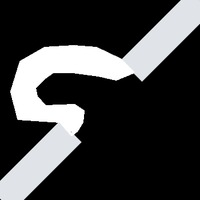
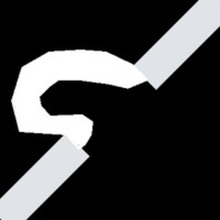
agrandado granpri}

diff --git a/static/games/granpri/pages/index.html b/static/games/granpri/pages/index.html
@@ -20,11 +20,11 @@
    $(function(){ 
    
    	var trackImg = [],
-	CWIDTH=600,
-	CHEIGHT=450,
+	CWIDTH=720,
+	CHEIGHT=540,
 	xpos = new Array(),
 	ypos = new Array(),
-	tmax = 15,
+	tmax = 20,
 	logger = $.games.new_play(),
 	backsound,
 	scoreTable = new Highscore(resume),
@@ -45,7 +45,7 @@
 	pPaso = 0,
 	check = new Checkpoint([5, 10, 15, 20, 25],on_end,on_check),  
     temp = $("#temp").get(0).getContext('2d');
-	temp.translate(100,100);
+	temp.translate(110,110);
 	temp.save(); 
    	for (i=0;i<=4;i++){
 		trackImg[i]= new Image();
@@ -53,10 +53,6 @@
 	} //
 	var img = new Image();
 	img.src = './res/images/Pasto.png';
-	img.onload = function(){
-	   generate_track([0,1,2,3],[1,2,3,4])
-	   
-    }
 	if ($.games.is_school_player){setTimeout(function(){END_SCHOOL = 1},$.games.school_max_time*1000)}
 	if ($.games.is_authenticated){
 		state = $.games.state;
@@ -83,29 +79,36 @@
 	//Drawing functions	
 	
 	function generate_track(interior,exterior){
-		var new_data=0;
+		var LADO = 220,
+			PX = 200,
+			PY = 75,
+			new_data=0;
 		ctx.drawImage(img,0,0);
+		ctx.globalCompositeOperation = 'lighter';
+		
 		temp.restore();
 		// dibujo exterior
-		ctx.globalCompositeOperation = 'lighter';
+		
+
 		for (c = 0; c < 4; c++) {
-			temp.drawImage(trackImg[exterior[c]], -100, -100);
-			ctx.drawImage($("#temp").get(0), 175 + 200 * Math.floor(c / 2), 25 + Math.round((c % 3)/1.5) * 200);
+			temp.drawImage(trackImg[exterior[c]], -LADO/2, -LADO/2);
+			ctx.drawImage($("#temp").get(0), PX + LADO * Math.floor(c / 2),PY + Math.round((c % 3)/1.5) * LADO);
 			temp.rotate(-Math.PI *90/180);
 		}
-		temp.restore();
+		
+		temp.restore()
 		// dibujo interior
 		temp.transform(0,-1,-1,0,0,0);
 		for (c = 0; c < 4; c++) {
-			temp.drawImage(trackImg[interior[c]], -100, -100);
-			ctx.drawImage($("#temp").get(0), 175 + 200 * Math.floor(c / 2), 25 + Math.round((c % 3)/1.5) * 200);
+			temp.drawImage(trackImg[interior[c]], -LADO/2, -LADO/2);
+			ctx.drawImage($("#temp").get(0), PX + LADO * Math.floor(c / 2), PY + Math.round((c % 3)/1.5) * LADO);
 			temp.rotate(Math.PI *90/180);
 		}
-		x = ctx.getImageData(0,0,600,450);
+		x = ctx.getImageData(0,0,720,540);
 		pixels= x.data;
 		ctx.globalCompositeOperation = 'source-over';  
 		ctx.fillStyle = "#0abcdf"
-		ctx.fillRect(170,220,40,20);
+		ctx.fillRect(190,290,40,20);
 	}
 	
 	// Event handling functions
@@ -115,7 +118,7 @@
 			clearTimeout(c2);
 			$('#puntos').text('Corredores a la largada...')
 			$("#semaforo").hide();
-			check.displaytext('Epa te zarpaste, empeza de nuevo');
+			check.displaytext('Epa te moviste, empeza de nuevo');
 			soundManager.play('move');
 			comienzo();
 		}
@@ -146,22 +149,22 @@
 		en_pista.push((pixels[CWIDTH*(e.layerY+10)*4+(e.layerX+20)*4]==255)*1);
 		
 		//puntos de paso
-	    if (e.layerX>340 &e.layerX<410 &e.layerY>22 &e.layerY<80&clockwiseFlag)
+	    if (e.layerX>370 &e.layerX<470 &e.layerY>73 &e.layerY<130&clockwiseFlag)
 			show_paso(1);
-	   	if (e.layerX>340 &e.layerX<410 &e.layerY>22 &e.layerY<80& (pPaso&2)>0)
+	   	if (e.layerX>370 &e.layerX<470 &e.layerY>73 &e.layerY<130& (pPaso&2)>0)
 			show_paso(1)
-	   	if (e.layerX>520 &e.layerX<590 &e.layerY>200 &e.layerY<260 & pPaso != 0)
+	   	if (e.layerX>580 &e.layerX<640 &e.layerY>280 &e.layerY<320 & pPaso != 0)
 			show_paso(2)
-		if (e.layerX>350 &e.layerX<410 &e.layerY>380 &e.layerY<440& !clockwiseFlag)
+		if (e.layerX>370 &e.layerX<470 &e.layerY>470 &e.layerY<530& !clockwiseFlag)
 			show_paso(4)
-		if (e.layerX>350 &e.layerX<410 &e.layerY>380 &e.layerY<440& (pPaso&2)>0)
+		if (e.layerX>370 &e.layerX<480 &e.layerY>470 &e.layerY<530& (pPaso&2)>0)
 			show_paso(4)
 		if (en_pista[en_pista.length-1]){
 			$("#game-container").css('cursor','url(./res/images/auto2.gif),auto');
 		}else{
 			$("#game-container").css('cursor','url(./res/images/autofuera2.gif),auto');
 		}
-		if (e.layerX>160 &e.layerX<185 &e.layerY>217 &e.layerY<230&pPaso ==7){
+		if (e.layerX>170 &e.layerX<210 &e.layerY>270 &e.layerY<310&pPaso ==7){
 			$("#bandera").slideDown(250);
 			pPaso = 0;
 			setTimeout(show_puntos,1000);
@@ -213,7 +216,7 @@
 		$("[id^=banderin]").hide();
 		var timeTot = Math.round(time[time.length-1]-time[0])/1000;
 		var penalizacion = 0;
-		for (i=0;i<xpos.length;i++){
+		for (i=1;i<xpos.length;i++){
 			if (!en_pista[i]){
 				penalizacion+= Math.round(Math.abs(xpos[i]-xpos[i-1]) + Math.abs(ypos[i]-ypos[i-1]))/20
 			}
@@ -316,7 +319,7 @@
 
 <body>
 <div id="game-container" height = "600" width="450"> 
-<canvas id="gameArea" width="600" height="450"></canvas>
+<canvas id="gameArea" width="720" height="540"></canvas>
 <img id="banderin0" src = "./res/images/banderin.png">
 <img id="banderin1" src = "./res/images/banderin.png">
 <img id="banderin2" src = "./res/images/banderin.png">
@@ -335,7 +338,7 @@
 </div>
 <div id="tmax">Tiempo max: 15.000 s</div>
 
-<canvas id="temp" width="200" height="200"></canvas>
+<canvas id="temp" width="220" height="220"></canvas>
 </body>
 
 </html>

diff --git a/static/games/granpri/pages/style.css b/static/games/granpri/pages/style.css
@@ -8,8 +8,8 @@ body{
 	position:absolute;
 	left: 50%;
 	top: 50%;
-	margin-left: -300px;
-	margin-top: -175px;
+	margin-left: -360px;
+	margin-top: -270px;
 }
 #gameArea{
 	visibility:hidden;
@@ -25,8 +25,8 @@ body{
 }
 #semaforo{
 	position:absolute;
-	top: 170px;
-	left: 340px;
+	top: 220px;
+	left: 400px;
 	width: 50px;
 	height: 100px;
 	display:none;
@@ -37,8 +37,8 @@ body{
 	font-size: 10px;
 	color: white;
 	background-color: blue;
-	top: 220px;
-	left: 170px;
+	top: 290px;
+	left: 190px;
 	width: 40px;
 	height: 20px;
 }
@@ -63,39 +63,42 @@ body{
 #tmax{
 	position:absolute;
 	font-size: 20px;
-	background-color: transparent;
+	background-color: #9BB1DD;
+	-moz-border-radius: 10px;
+	border-radius: 10px;
 	top: 30%;
 	left: 80%;
-	width: 10%
-	height: 20%;
+	width: 18%;
+	height: 10%;
 }
 img{
 	position:absolute;
 }
 
 #banderin0{
-	top: 0%;
-	left: 60%;
-	display: none;
+	top: 110px;
+	left: 420px;
+	display:none;
+
 }
 
 #banderin1{
-	top: 48%;
-	left: 95%;
-	display: none;
+	top: 295px;
+	left: 640px;
+	display:none;
 }
 
 #banderin2{
-	top: 80%;
-	left: 60%;
-	display: none;
+	top: 480px;
+	left: 420px;
+	display:none;
 }
 div#flecha{
 	position: absolute;
 	display:none;
-	height: 40%;
+	height: 30%;
 	width: 15%;
- 	top: 30%;
+ 	top: 40%;
 	left: 10%;
 }
 
